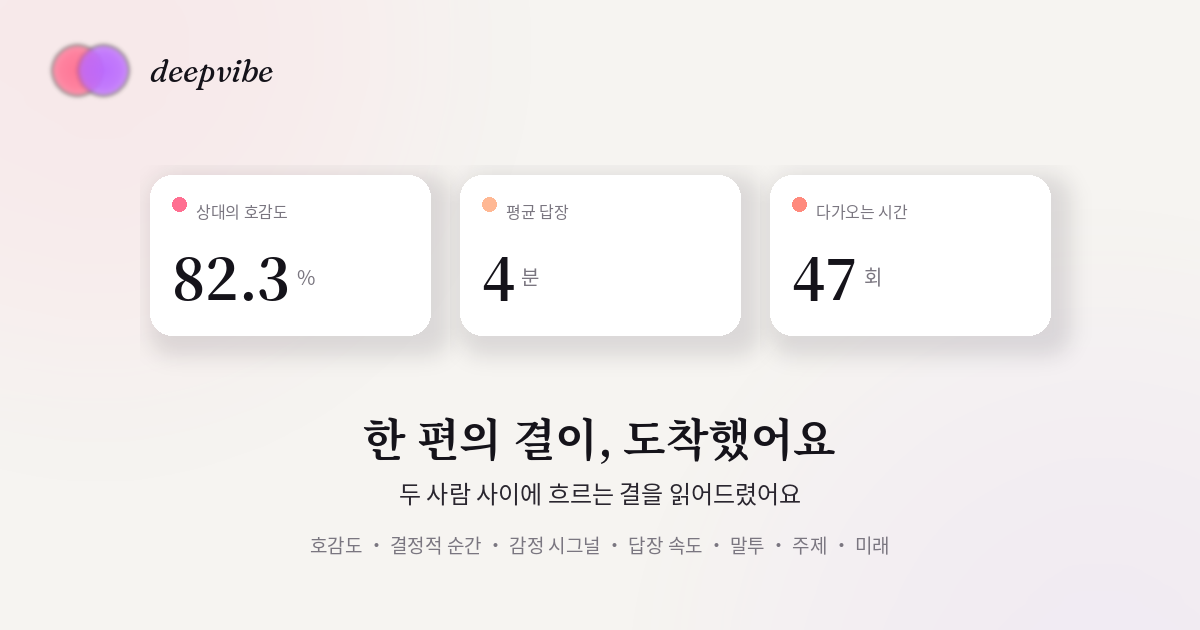
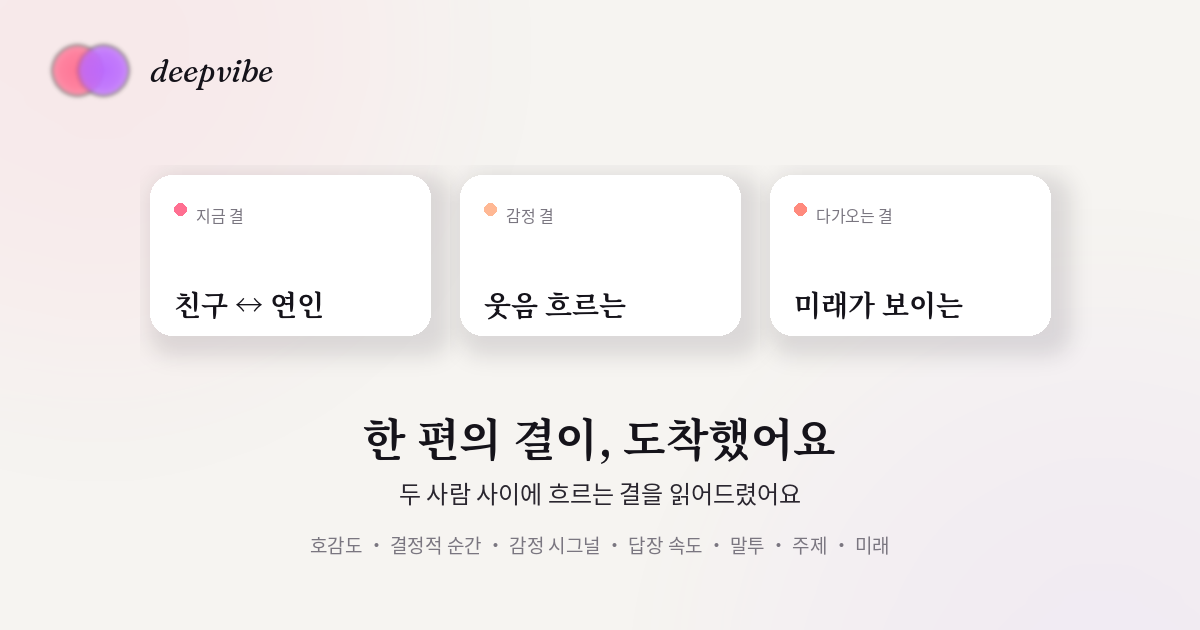
new

diff --git a/index.html b/index.html
@@ -832,6 +832,15 @@
     font-variant-numeric:tabular-nums lining-nums;
     font-feature-settings:"tnum" 1,"lnum" 1;
   }
+  /* big-text: 한글 정성 표현용 (s1, s3, s4 평가성 카드)
+     - Fraunces 영문 숫자 30px → 한글 22px로 시각적 균형
+     - 의미 있는 한 줄 카피 (점수 평가 X) */
+  .hero-slide .a-stat .big.big-text{
+    font-size:22px;
+    font-weight:400;
+    letter-spacing:-.005em;
+    font-feature-settings:normal;
+  }
   /* small soft glow orb behind the number — smaller than the digits,
      bleeds out gently like ink in paper. Multiply blend so the color
      soaks into the white card background instead of floating above it. */
@@ -1010,9 +1019,7 @@
      4. p-summary (.6s)
      5. p-chart (.8s - line draws 1.8s)
      6. p-events (1.1s, 1.3s, 1.5s sequentially) */
-  .p-card .p-tag,
   .p-card .p-title,
-  .p-card .p-hero-num,
   .p-card .p-summary,
   .p-card .p-chart,
   .p-card .p-events li{
@@ -1020,22 +1027,15 @@
     transform:translateY(8px);
     transition:opacity .6s var(--ease-out-soft), transform .6s var(--ease-out-soft);
   }
-  .reveal.is-in .p-card .p-tag{opacity:1;transform:none;transition-delay:.1s}
-  .reveal.is-in .p-card .p-title{opacity:1;transform:none;transition-delay:.2s}
-  .reveal.is-in .p-card .p-hero-num{opacity:1;transform:none;transition-delay:.35s}
-  .reveal.is-in .p-card .p-summary{opacity:1;transform:none;transition-delay:.6s}
-  .reveal.is-in .p-card .p-chart{opacity:1;transform:none;transition-delay:.8s}
-  .reveal.is-in .p-card .p-events li:nth-child(1){opacity:1;transform:none;transition-delay:1.1s}
-  .reveal.is-in .p-card .p-events li:nth-child(2){opacity:1;transform:none;transition-delay:1.3s}
-  .reveal.is-in .p-card .p-events li:nth-child(3){opacity:1;transform:none;transition-delay:1.5s}
+  .reveal.is-in .p-card .p-title{opacity:1;transform:none;transition-delay:.1s}
+  .reveal.is-in .p-card .p-summary{opacity:1;transform:none;transition-delay:.25s}
+  .reveal.is-in .p-card .p-chart{opacity:1;transform:none;transition-delay:.45s}
+  .reveal.is-in .p-card .p-events li:nth-child(1){opacity:1;transform:none;transition-delay:.75s}
+  .reveal.is-in .p-card .p-events li:nth-child(2){opacity:1;transform:none;transition-delay:.95s}
+  .reveal.is-in .p-card .p-events li:nth-child(3){opacity:1;transform:none;transition-delay:1.15s}
 
-  .p-tag{
-    font-family:var(--font-sans);
-    font-size:9.5px;font-weight:600;
-    color:var(--muted-2);
-    letter-spacing:.14em;
-    text-transform:uppercase;
-  }
+  /* v124: p-tag removed ("01 · AFFINITY" English label dropped — Korean-first principle). */
+
   .p-title{
     margin-top:6px;
     font-family:var(--font-serif);font-weight:300;font-style:italic;
@@ -1044,51 +1044,22 @@
   }
   .p-main .p-title{font-size:24px}
 
-  /* ===== MAIN: hero number + summary + chart + events ===== */
-  .p-hero-num{
-    position:relative;
-    margin:24px auto 10px;
-    text-align:center;
-    padding:18px 0;
-  }
-  .p-hero-glow{
-    position:absolute;
-    left:50%;top:50%;
-    transform:translate(-50%,-50%);
-    width:240px;height:240px;
-    border-radius:50%;
-    background:radial-gradient(circle at 50% 50%,
-      rgba(255,159,188,.42) 0%,
-      rgba(255,180,198,.22) 30%,
-      rgba(255,200,215,.08) 55%,
-      rgba(255,200,215,0) 75%
-    );
-    filter:blur(6px);
-    pointer-events:none;
-    z-index:0;
-  }
-  .p-hero-value{
-    position:relative;z-index:1;
-    font-family:var(--font-serif);font-weight:300;
-    font-size:72px;line-height:1;letter-spacing:-.04em;
-    color:var(--ink);
-    font-feature-settings:"tnum" 1,"lnum" 1;
-  }
-  .p-hero-denom{
-    position:relative;z-index:1;
-    margin-top:6px;
-    font-family:var(--font-serif);font-weight:300;font-style:italic;
-    font-size:16px;color:var(--muted);
-    letter-spacing:-.01em;
-  }
+  /* v124: p-hero-num removed (score "82.3 /100" replaced by narrative + chart,
+     matching /report's AFFINITY card pattern). */
 
   .p-summary{
     margin-top:18px;
     text-align:center;
     font-family:var(--font-serif);font-weight:300;font-style:italic;
-    font-size:13.5px;color:var(--muted);
-    line-height:1.55;
+    font-size:15px;color:var(--ink);
+    line-height:1.5;
     letter-spacing:-.005em;
+  }
+  .p-summary em{
+    font-style:normal;font-weight:400;
+    color:var(--ink);
+    background:rgba(255,159,188,.22);
+    padding:0 5px;border-radius:4px;
   }
 
   .p-chart{
@@ -2128,9 +2099,7 @@
     .reveal.is-in .p-card{transition-delay:0s !important}
     /* skip all internal staggers — show everything instantly */
     .journey-card,
-    .p-card .p-tag,
     .p-card .p-title,
-    .p-card .p-hero-num,
     .p-card .p-summary,
     .p-card .p-chart,
     .p-card .p-events li{
@@ -2206,13 +2175,13 @@
     <div class="hero-card" id="heroCard">
       <div class="hero-slides" id="heroSlides">
 
-        <div class="hero-slide s1 is-current" data-stat="82.3" data-stat-fmt="decimal">
+        <div class="hero-slide s1 is-current">
           <div class="a-title">답장이 빨라진 주</div>
           <div class="a-art"></div>
           <div class="a-quote">"자고 있었어? ㅋㅋ<br><em>깨운 건 아니지</em>"</div>
           <div class="a-stat">
-            <span>매칭도</span>
-            <span class="big" data-target="82.3">0</span>
+            <span>지금 결</span>
+            <span class="big big-text">친구 ↔ 연인</span>
           </div>
         </div>
 
@@ -2226,23 +2195,23 @@
           </div>
         </div>
 
-        <div class="hero-slide s3" data-stat="71" data-stat-fmt="percent">
+        <div class="hero-slide s3">
           <div class="a-title">웃음 이모티콘의 결</div>
           <div class="a-art"></div>
           <div class="a-quote">"오늘 진짜<br><em>보고 싶다</em> 🥺"</div>
           <div class="a-stat">
-            <span>긍정 비율</span>
-            <span class="big" data-target="71">0<span style="font-size:10px;color:var(--muted);font-style:normal;margin-left:2px">%</span></span>
+            <span>감정 결</span>
+            <span class="big big-text">웃음 흐르는</span>
           </div>
         </div>
 
-        <div class="hero-slide s4" data-stat="68" data-stat-fmt="percent">
+        <div class="hero-slide s4">
           <div class="a-title">닮아가는 말투</div>
           <div class="a-art"></div>
           <div class="a-quote">"그치 그치,<br><em>나도 그 생각 했어</em>"</div>
           <div class="a-stat">
-            <span>일치도</span>
-            <span class="big" data-target="68">0<span style="font-size:10px;color:var(--muted);font-style:normal;margin-left:2px">%</span></span>
+            <span>말투 결</span>
+            <span class="big big-text">닮아가는</span>
           </div>
         </div>
 
@@ -2345,18 +2314,11 @@
 
     <!-- HERO PREVIEW CARD: Affinity / 호감도 - the sole analysis preview -->
     <article class="p-card" aria-labelledby="p-main-title">
-      <div class="p-tag"><span>01 · AFFINITY</span></div>
       <h3 class="p-title" id="p-main-title">상대의 호감도</h3>
 
-      <div class="p-hero-num">
-        <div class="p-hero-glow" aria-hidden="true"></div>
-        <div class="p-hero-value">0.0</div>
-        <div class="p-hero-denom"><em>/100</em></div>
-      </div>
-
       <p class="p-summary">
-        적극적인 답장과 사적인 공유가 많고,<br>
-        대화를 먼저 여는 빈도도 꾸준합니다.
+        두 사람은 지금,<br>
+        <em>친구에서 연인으로 향하는 길</em> 위에 있어요.
       </p>
 
       <!-- mini line chart of affinity over time -->
@@ -2750,6 +2712,8 @@
   const animateStatOnSlide = (slideEl) => {
     const statEl = slideEl.querySelector('.a-stat .big');
     if (!statEl) return;
+    // big-text: 정성 표현 카드 (s1, s3, s4) — count-up 스킵
+    if (statEl.classList.contains('big-text')) return;
     const target = parseFloat(statEl.dataset.target);
     const fmt = slideEl.dataset.statFmt || 'decimal';
     // text node is first child; preserve any trailing unit <span>
@@ -2890,44 +2854,8 @@
     }
   }
 
-  /* Analysis preview hero number (82.3) count-up: starts when analysis section reveals */
-  const heroValue = document.querySelector('.p-hero-value');
-  if (heroValue) {
-    const heroTarget = 82.3;
-    const analysisSection = document.querySelector('.analysis');
-    let heroStarted = false;
-    const heroCount = () => {
-      if (heroStarted) return;
-      heroStarted = true;
-      if (reduce) {
-        heroValue.textContent = heroTarget.toFixed(1);
-        return;
-      }
-      const dur = 1600;
-      const start = performance.now();
-      const tick = (now) => {
-        const p = Math.min(1, (now - start) / dur);
-        const v = (easeOut(p) * heroTarget).toFixed(1);
-        heroValue.textContent = v;
-        if (p < 1) requestAnimationFrame(tick);
-      };
-      requestAnimationFrame(tick);
-    };
-    if ('IntersectionObserver' in window && analysisSection) {
-      const ao = new IntersectionObserver((entries) => {
-        entries.forEach(e => {
-          if (e.isIntersecting) {
-            // Wait for the card's internal stagger to start (.35s delay on hero-num)
-            setTimeout(heroCount, 500);
-            ao.unobserve(e.target);
-          }
-        });
-      }, { threshold: 0.3 });
-      ao.observe(analysisSection);
-    } else {
-      heroCount();
-    }
-  }
+  /* v124: Analysis preview hero number (82.3) removed for brand consistency.
+     /report AFFINITY card uses narrative + chart (no score), /index preview now matches. */
 
   /* Tap ripple on kakao buttons */
   const tapTargets = document.querySelectorAll('.btn-kakao');

diff --git a/api/og.tsx b/api/og.tsx
@@ -345,13 +345,11 @@ function OGUpload() {
 function MiniCard({
   accentColor,
   label,
-  value,
-  suffix,
+  caption,
 }: {
   accentColor: string;
   label: string;
-  value: string;
-  suffix: string;
+  caption: string;
 }) {
   return (
     <div
@@ -360,9 +358,10 @@ function MiniCard({
         flexDirection: 'column',
         background: '#fff',
         borderRadius: '22px',
-        padding: '24px 22px',
+        padding: '26px 24px',
         width: '280px',
         height: '160px',
+        justifyContent: 'space-between',
         boxShadow:
           '0 1px 2px rgba(20,10,30,0.04), 0 12px 28px -16px rgba(20,10,30,0.1), 0 24px 48px -20px rgba(20,10,30,0.15)',
       }}
@@ -372,7 +371,6 @@ function MiniCard({
           display: 'flex',
           alignItems: 'center',
           gap: '8px',
-          marginBottom: '14px',
         }}
       >
         <div
@@ -394,29 +392,18 @@ function MiniCard({
           {label}
         </div>
       </div>
-      <div style={{ display: 'flex', alignItems: 'baseline', gap: '6px' }}>
-        <div
-          style={{
-            fontFamily: 'Fraunces',
-            fontWeight: 500,
-            fontSize: '64px',
-            color: COLORS.ink,
-            letterSpacing: '-0.03em',
-            lineHeight: 1,
-          }}
-        >
-          {value}
-        </div>
-        <div
-          style={{
-            fontFamily: 'NotoSansKR',
-            fontSize: '20px',
-            color: COLORS.muted,
-            letterSpacing: '-0.002em',
-          }}
-        >
-          {suffix}
-        </div>
+      <div
+        style={{
+          display: 'flex',
+          fontFamily: 'NotoSerifKR',
+          fontWeight: 400,
+          fontSize: '28px',
+          color: COLORS.ink,
+          letterSpacing: '-0.015em',
+          lineHeight: 1.25,
+        }}
+      >
+        {caption}
       </div>
     </div>
   );
@@ -473,9 +460,9 @@ function OGReport() {
           zIndex: 2,
         }}
       >
-        <MiniCard accentColor={COLORS.pink} label="상대의 호감도" value="82.3" suffix="%" />
-        <MiniCard accentColor={COLORS.orange} label="평균 답장" value="4" suffix="분" />
-        <MiniCard accentColor={COLORS.coral} label="다가오는 시간" value="47" suffix="회" />
+        <MiniCard accentColor={COLORS.pink} label="지금 결" caption="친구 ↔ 연인" />
+        <MiniCard accentColor={COLORS.orange} label="감정 결" caption="웃음 흐르는" />
+        <MiniCard accentColor={COLORS.coral} label="다가오는 결" caption="미래가 보이는" />
       </div>
 
       <div
